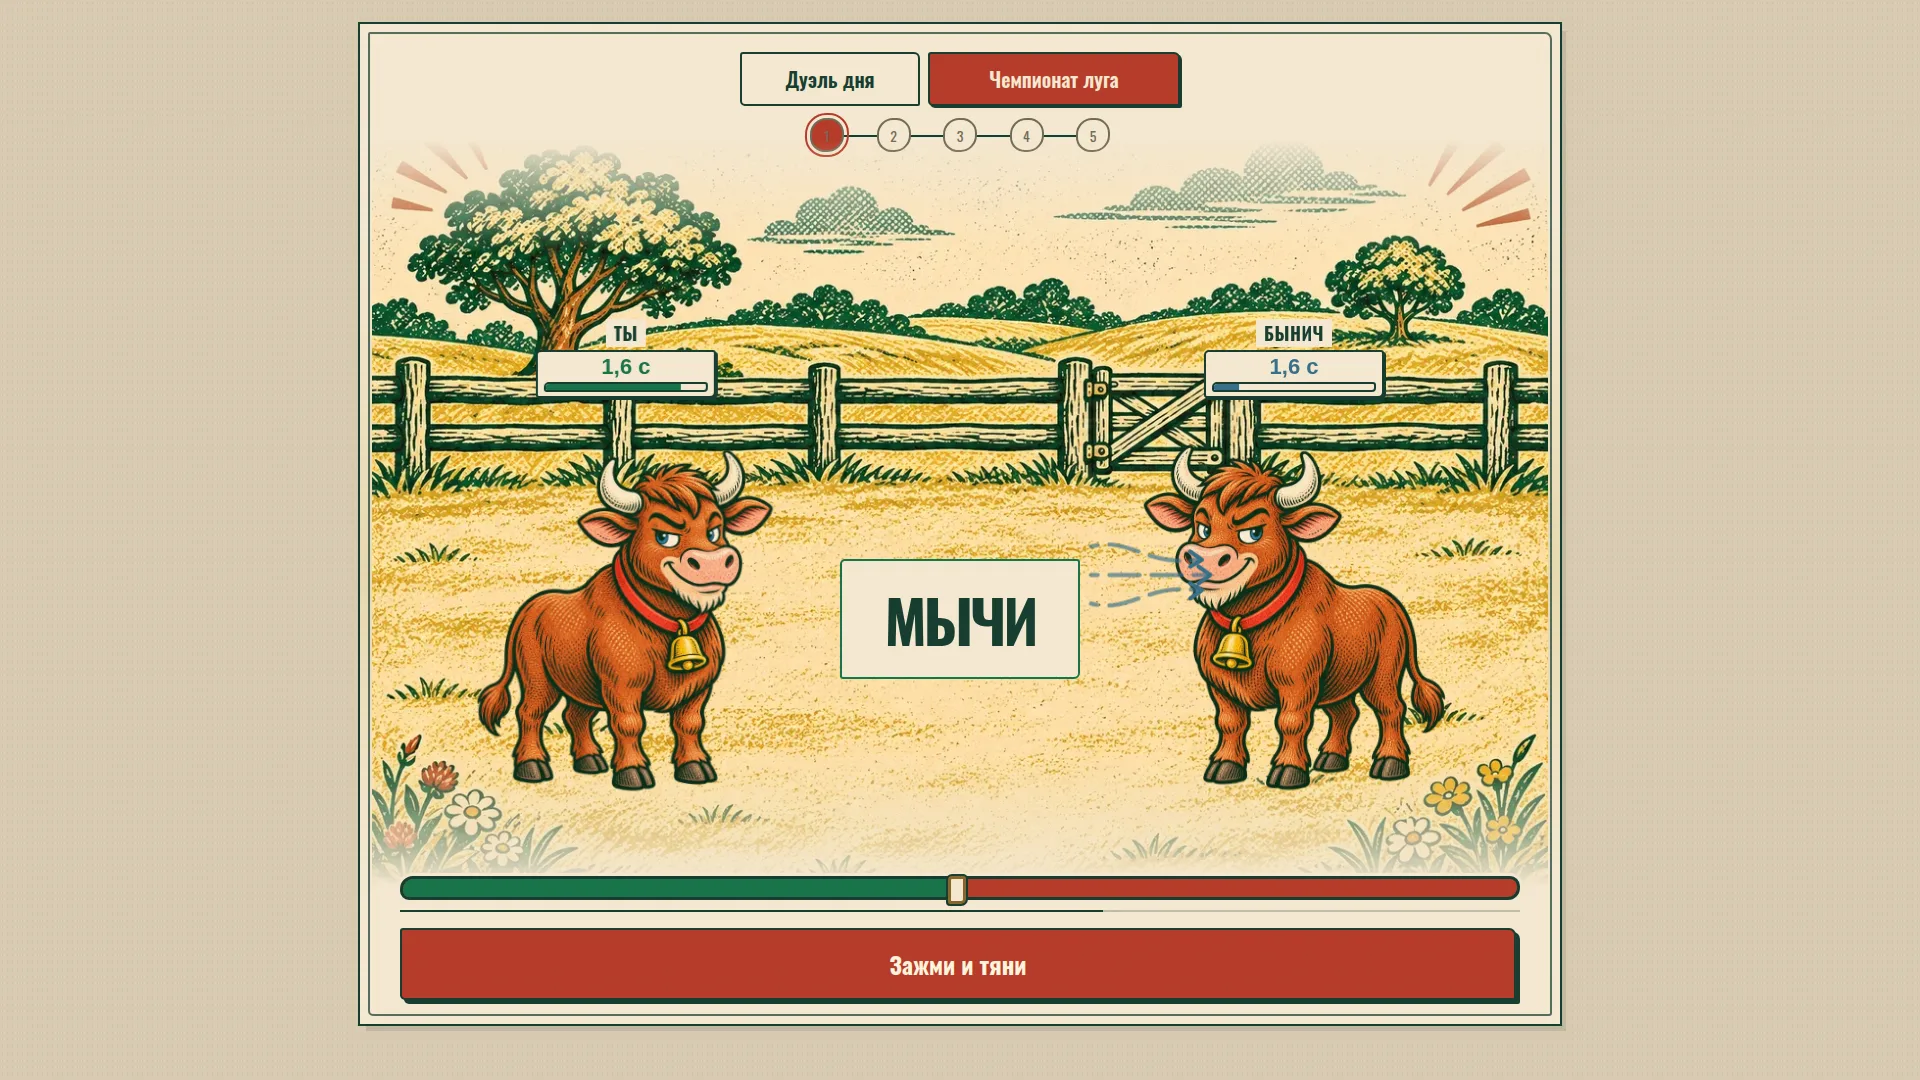
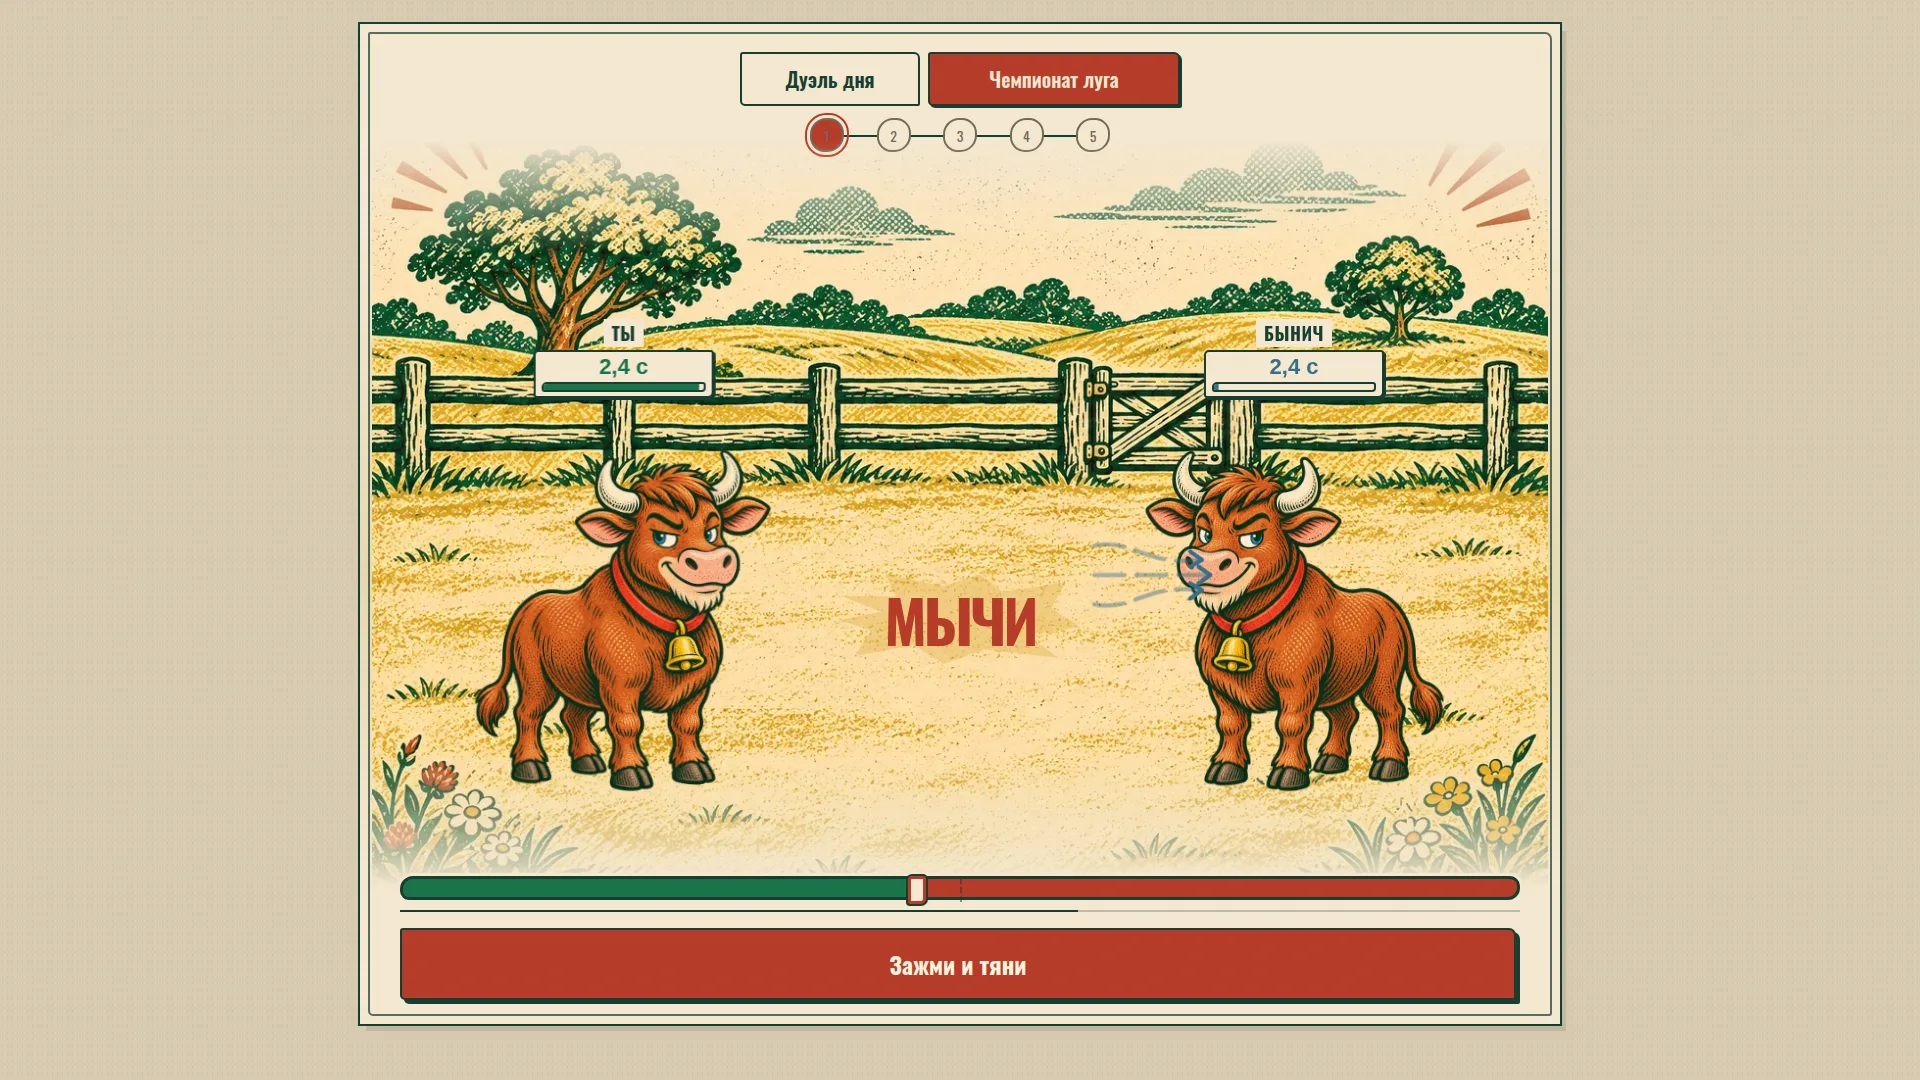
fix(ui): restore bare headings with terracotta ink
Remove the heading plates and restore the original sizing. Use the existing terracotta accent for all central headings as requested.

Validation: 323 unit tests, TypeScript and production build pass. Targeted Chrome checks cover every heading state, all scenes, four viewport sizes, font failure, stable command geometry, result clearance and an actual live round. The original-ink and plate mutations fail the updated guard. No lint check is configured.

diff --git a/src/style.css b/src/style.css
@@ -510,14 +510,12 @@ body {
 .player-window__track, .bull-window__track { display: block; height: 10px; border: 2px solid var(--ink); border-radius: 5px 3px 4px 3px; overflow: hidden; background: var(--paper); box-shadow: 0 0 0 2px var(--paper); }
 #player-fill, #bull-fill { display: block; height: 100%; background: currentColor; transform-origin: left; }
 .app[data-bull-cue='warning'] .bull-window, .app[data-bull-cue='voice'] .bull-window { color: var(--lose); }
-.callout { position: absolute; z-index: 1; left: 50%; top: calc(50% + 100px); translate: -50% -50%; display: grid; place-items: center; width: var(--cue-gap); height: 120px; margin: 0; font-size: clamp(22px, 6.8vw, 60px); font-weight: 700; line-height: 1; letter-spacing: -.055em; text-transform: uppercase; text-align: center; }
-#callout-label { display: grid; place-items: center; width: min(100%, 640px); height: 100%; border-radius: 5px 3px 6px 3px; color: var(--ink); background: var(--paper); box-shadow: inset 0 0 0 2px var(--ink); }
-.app[data-cue='moo'] #callout-label { box-shadow: inset 0 0 0 2px var(--win); }
-.app[data-cue='ready'] #callout-label { box-shadow: inset 0 0 0 2px var(--even); }
+.callout { position: absolute; z-index: 1; left: 50%; top: calc(50% + 100px); translate: -50% -50%; display: grid; place-items: center; width: var(--cue-gap); height: 120px; margin: 0; font-size: clamp(22px, 6.8vw, 60px); font-weight: 700; line-height: 1; letter-spacing: -.055em; text-transform: uppercase; text-align: center; color: var(--him); }
+.app[data-cue='moo'] .callout::before { position: absolute; z-index: -1; inset: 15px 0; content: ''; background: #dfad4560; clip-path: polygon(0 24%, 23% 25%, 19% 0, 43% 14%, 58% 0, 68% 20%, 94% 9%, 88% 38%, 100% 59%, 78% 68%, 91% 93%, 60% 84%, 43% 100%, 31% 79%, 6% 91%, 13% 63%, 0 51%, 17% 42%); }
+#callout-label { display: grid; place-items: center; width: 100%; height: 100%; }
 .callout.is-count { font-size: clamp(46px, 9vw, 72px); }
 .app:not([data-phase]) .arena { padding-top: 12px; }
 .app:not([data-phase]) .callout { position: static; grid-column: 1 / -1; grid-row: 1; translate: none; width: 100%; height: 120px; font-size: clamp(36px, 9vw, 60px); }
-.app[data-mode='daily']:not([data-phase]) .callout { font-size: clamp(36px, 9vw, 46px); }
 .app[data-phase='toss'] .callout { top: calc(50% + 90px); width: 90%; font-size: clamp(24px, 4vw, 36px); }
 .app[data-phase='done'] .callout { position: static; grid-column: 1 / -1; grid-row: 1; translate: none; width: 100%; padding: 12px 0; background: none; animation: none; font-size: clamp(28px, 5vw, 48px); }
 @media (min-width: 1000px) {
